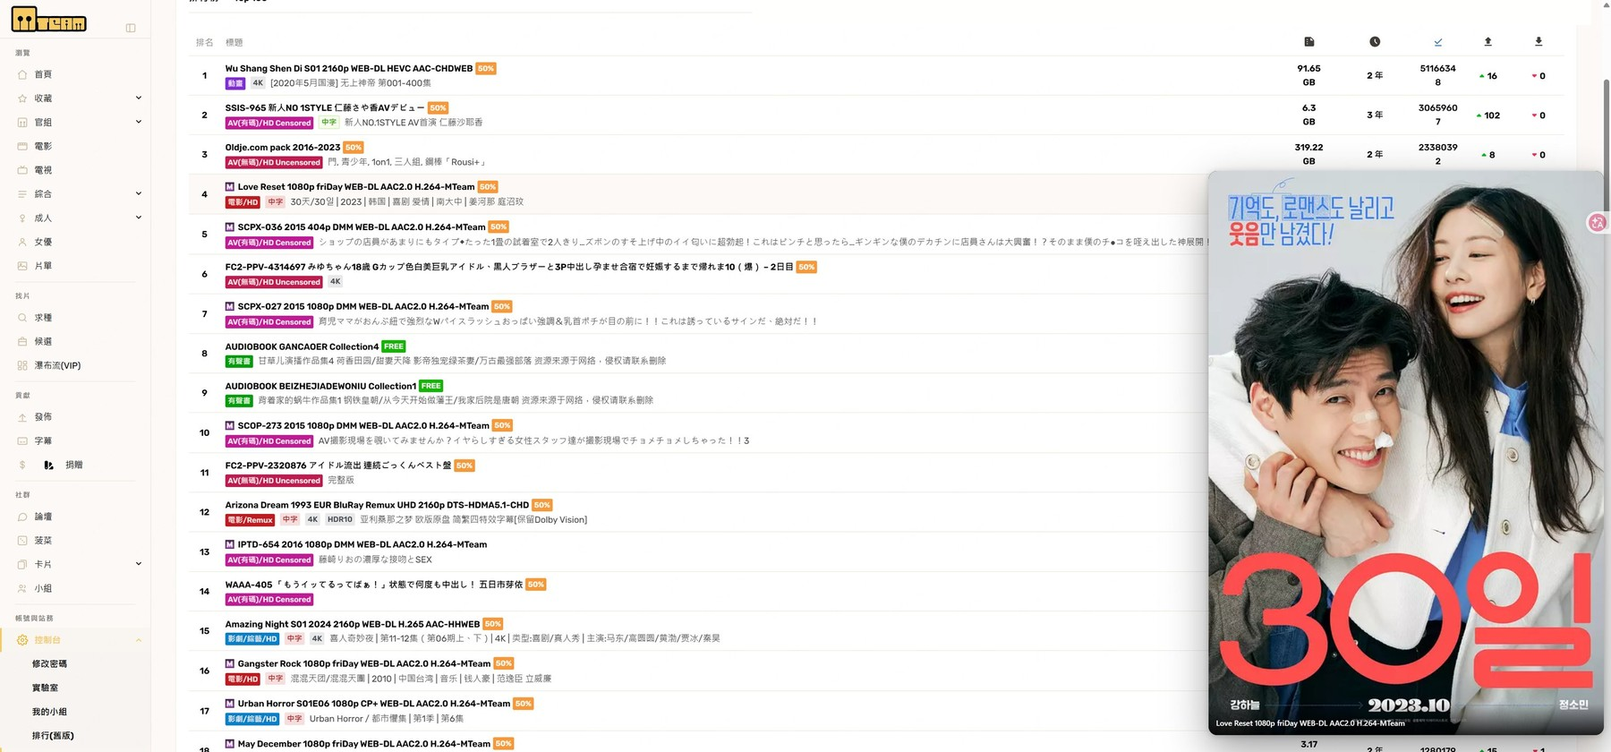
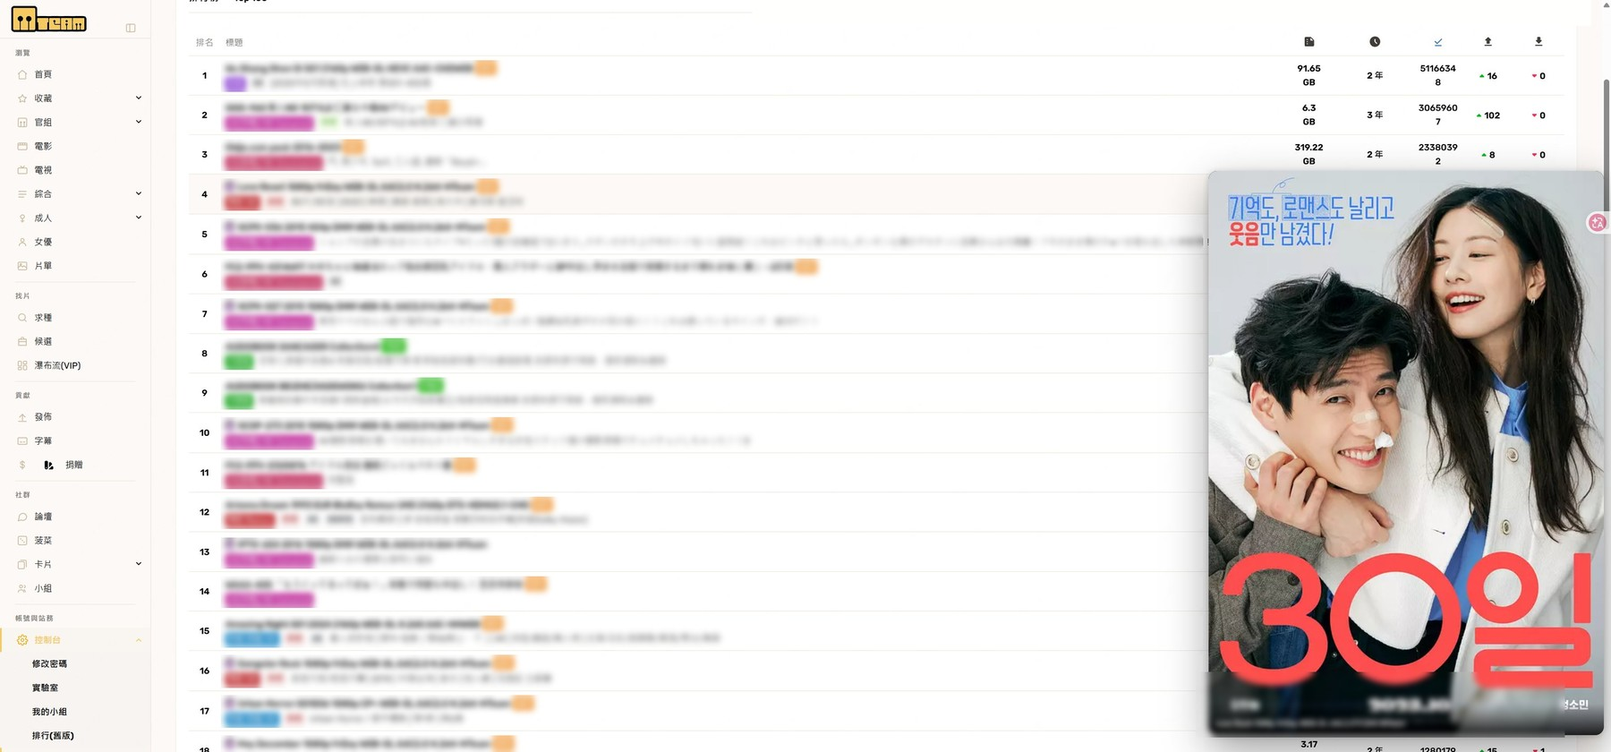
docs: English README; blur torrent titles in the hero screenshot

diff --git a/README.md b/README.md
@@ -1,7 +1,7 @@
-# M-Team 排行榜悬浮大图预览
+# M-Team Rankings Hover Preview
 
 <p align="center">
-  <a href="https://raw.githubusercontent.com/Eliaukzzz/m-team-rankings-hover-preview/main/m-team-rankings-hover-preview.user.js"><img alt="安装" src="https://img.shields.io/badge/%E4%B8%80%E9%94%AE%E5%AE%89%E8%A3%85-userscript-2ea44f?style=for-the-badge&logo=tampermonkey&logoColor=white"></a>
+  <a href="https://raw.githubusercontent.com/Eliaukzzz/m-team-rankings-hover-preview/main/m-team-rankings-hover-preview.user.js"><img alt="Install" src="https://img.shields.io/badge/INSTALL-userscript-2ea44f?style=for-the-badge&logo=tampermonkey&logoColor=white"></a>
 </p>
 
 <p align="center">
@@ -11,85 +11,85 @@
   <img alt="managers" src="https://img.shields.io/badge/Tampermonkey%20%7C%20Violentmonkey-supported-black?style=flat-square">
 </p>
 
-在 M-Team 新版排行榜 [/rankings](https://kp.m-team.cc/rankings) 里，把鼠标移到任意一行上，就在行侧弹出这个种子的**海报大图**——不用点进详情页一张张看封面。
+On M-Team's new [rankings page](https://kp.m-team.cc/rankings), hover any row and the torrent's **full-size poster** pops out beside it — no need to open detail pages one by one just to see the cover.
 
-![预览](docs/preview.jpg)
+![Preview](docs/preview.jpg)
 
-<sub>真实页面截图：M-Team 新版排行榜，鼠标停在第 4 行。截图里的账号栏已经裁掉了。</sub>
+<sub>Real page, cursor resting on row 4. Torrent names are blurred on purpose; the account bar is cropped out of the frame.</sub>
 
-## 为什么
+## Why
 
-排行榜一屏 100 条，只有标题和一行标签。想知道「这部片子长什么样」「海报对不对口」，得挨个点进详情页，而且点开就离开了榜单，回来还要重新找位置。
+The rankings page shows 100 torrents at a time with nothing but a title and one line of tags. To find out "what does this release look like", you have to open each detail page — and opening one takes you off the list, so you lose your place and have to scroll back down afterwards.
 
-麻烦的是，新版排行榜的表格里**根本没有缩略图**——只有排名和标题文字。所以要做这件事，不能靠放大行内已有的小图，只能去拿页面背后的数据。
+Worse, the new rankings table has **no thumbnails at all**: only a rank and the title text. So this cannot be done by enlarging an existing inline image — the poster has to be pulled from the data behind the page.
 
-这个脚本把「看一眼海报」变成一次悬浮：**不改页面结构、不额外请求接口、不读写账号数据**，只是把页面已经拿到的封面地址读出来，贴着行浮出来。
+This script turns "take a peek at the poster" into a single hover: **no DOM surgery, no extra API calls, no account data touched**. It reads the cover URLs the page already received and floats the large image next to the row.
 
-## 功能
+## Features
 
-- **自动取海报**：新版排行榜没有行内缩略图，脚本从两条路子拿封面——拦下页面自己的排行榜接口响应，或顺着 React 数据往上找到这一行的种子对象，取出 `imageList[0]`；两样都拿不到时，才退回放大行内已有的图片（老版榜单、卡片视图仍有缩略图）。
-- **悬浮即看**：停留约 110ms 弹出，移开约 90ms 淡出。有延迟是为了避免快速划过多行时满屏闪图。
-- **智能贴边**：行右侧优先；放不下翻到左侧；两边都放不下就贴视口边缘并上下夹取，保证整张海报**完整可见**，不会被窗口切掉。
-- **大图优先**：站点常同时存 `xxx-1.jpg`（缩略）与 `xxxjp-1.jpg`（大图），脚本先试大图，失败自动回退；若加载结果明显偏小且还有更大候选，会换用更大的那张。
-- **带上标题**：大图底部叠一行标题（两行截断），扫一眼就能确认是哪个资源。
-- **随手开关**：右下角「大图」按钮或 `Alt + P`，状态记在 `localStorage`，刷新后保持；按住 `Alt` 悬浮则本次不弹（方便拖拽、选区）。
-- **不打断操作**：`pointer-events: none`，大图不吃鼠标事件；滚动、切标签页、前进后退、选中文字时自动收起。
+- **Poster from page data.** The new rankings table has no inline thumbnail, so the script gets the cover two ways: it hooks the site's own rankings XHR/Fetch response, or walks up the React fiber from the row to the torrent object, and takes `imageList[0]` from whichever hits. Only when both fail does it fall back to enlarging an inline image (old rankings page, card views).
+- **Hover to peek.** Pops out after ~110ms and fades out after ~90ms off the row. The delay keeps fast cursor sweeps from flashing images all over the screen.
+- **Smart placement.** Right of the row first; flips to the left when there is no room; if neither side fits it hugs the viewport edge and clamps vertically, so the poster is always **fully visible** and never clipped.
+- **Large variant first.** The site often keeps both `xxx-1.jpg` (thumb) and `xxxjp-1.jpg` (full). The script tries the large one first and falls back automatically; if the loaded image is clearly too small and a bigger candidate exists, it swaps.
+- **Caption on top.** A one-line title (clamped to two lines) is overlaid at the bottom of the poster so you know which release you are looking at.
+- **Toggle on demand.** The "大图" button in the bottom-right corner, or `Alt + P`. The state is kept in `localStorage` across reloads. Holding `Alt` while hovering suppresses the preview for that moment (handy while dragging or selecting text).
+- **Never in the way.** `pointer-events: none` — the preview does not eat mouse events. Scroll, tab switch, back/forward, or selecting text hides it immediately.
 
-## 安装
+## Install
 
-**先装脚本管理器**：[Tampermonkey](https://www.tampermonkey.net/)（或 Violentmonkey / ScriptCat）。
+**First install a userscript manager**: [Tampermonkey](https://www.tampermonkey.net/) (or Violentmonkey / ScriptCat).
 
-**再点这里安装脚本**：
+**Then click here to install the script**:
 
 **<https://raw.githubusercontent.com/Eliaukzzz/m-team-rankings-hover-preview/main/m-team-rankings-hover-preview.user.js>**
 
-油猴会弹出安装页，点「安装」即可。也可以把仓库里的 [m-team-rankings-hover-preview.user.js](https://github.com/Eliaukzzz/m-team-rankings-hover-preview/blob/main/m-team-rankings-hover-preview.user.js) 直接拖进浏览器窗口，或在油猴面板「添加新脚本」里粘贴内容后 `Ctrl + S`。
+Tampermonkey shows its install page — click *Install*. You can also drag [m-team-rankings-hover-preview.user.js](https://github.com/Eliaukzzz/m-team-rankings-hover-preview/blob/main/m-team-rankings-hover-preview.user.js) straight into a browser window, or paste it into a new script in the manager panel and press `Ctrl + S`.
 
-安装后打开 <https://kp.m-team.cc/rankings>，鼠标移到任意一行上就有了。
+Then open <https://kp.m-team.cc/rankings> and hover any row.
 
-> 已经从旧版升级的，更新脚本后请**刷新一次页面**：脚本要在页面发请求之前挂上钩子，才能收到首屏的排行榜数据。
+> Upgrading from an older version? **Reload the page once** after updating: the script has to hook the network before the page sends its first request, otherwise the first batch of rankings data is missed.
 
-### 环境
+### Requirements
 
-| 项目 | 要求 |
+| Item | Requirement |
 | --- | --- |
-| 浏览器 | Chrome / Edge / Firefox / Brave 等支持 `PointerEvent` 的现代版本 |
-| 脚本管理器 | Tampermonkey 4.19+、Violentmonkey 2.13+、ScriptCat |
-| 页面 | `https://kp.m-team.cc/rankings`（新版排行榜），需已登录 |
-| 窗口宽度 | ≥ 720px（窄屏放不下大图，自动不启用） |
+| Browser | Chrome / Edge / Firefox / Brave or any modern build with `PointerEvent` |
+| Userscript manager | Tampermonkey 4.19+, Violentmonkey 2.13+, ScriptCat |
+| Page | `https://kp.m-team.cc/rankings` (new rankings page), logged in |
+| Viewport width | ≥ 720px (narrower screens cannot fit the preview, so it stays off) |
 
-## 使用
+## Usage
 
-| 操作 | 效果 |
+| Action | Result |
 | --- | --- |
-| 悬浮某一行 | 行侧弹出该种子的大图（约 0.1 秒后） |
-| 移开鼠标 | 约 90ms 后淡出 |
-| `Alt + P` | 全局开关预览 |
-| 点右下角「大图」按钮 | 同上，状态会被记住 |
-| 按住 `Alt` 悬浮 | 本次不弹 |
-| 滚动页面 | 大图立即收起 |
+| Hover a row | The torrent's poster pops out beside the row (after ~0.1s) |
+| Move the cursor away | Fades out after ~90ms |
+| `Alt + P` | Toggle the preview globally |
+| Click the "大图" button | Same toggle, state is remembered |
+| Hold `Alt` while hovering | No preview for that moment |
+| Scroll the page | Preview hides immediately |
 
-## 配置
+## Configuration
 
-脚本顶部的 `CONFIG` 是唯一配置区，改完保存、刷新页面即生效：
+The `CONFIG` block at the top of the script is the only place to configure it. Edit, save, reload the page:
 
-| 配置项 | 默认值 | 说明 |
+| Option | Default | Description |
 | --- | --- | --- |
-| `paths` | `['/rankings']` | 生效的路径前缀，可加多项 |
-| `allPages` | `false` | `true` = 全站所有页面生效 |
-| `rowSelector` | `tr.ant-table-row, tr[data-row-key], table.table-fixed tbody tr` | 「一行」的匹配选择器 |
-| `thumbMinSize` | `32` | 缩略图最小可见边长，用来滤掉小图标（antd 图片、详情链接内的图不受限） |
-| `showDelay` / `hideDelay` | `110` / `90` | 弹出 / 收起的延迟（ms） |
-| `maxWidthRatio` / `maxHeightRatio` | `0.46` / `0.68` | 大图最多占视口宽 / 高比例 |
-| `maxWidthPx` | `760` | 大图宽度硬上限（px） |
-| `minPreviewPx` | `140` | 大图最小边长（px），避免超宽图被压成一条 |
-| `gap` | `16` | 大图与行之间的间距（px） |
-| `showCaption` | `true` | 底部是否显示标题 |
-| `showToggleButton` | `true` | 是否显示右下角开关按钮 |
-| `minViewportWidth` | `720` | 视口窄于此值不启用 |
-| `preferLargeMinWidth` | `360` | 加载结果小于此宽度时，尝试更大的候选图 |
+| `paths` | `['/rankings']` | Path prefixes where the script is active; add more as needed |
+| `allPages` | `false` | `true` = active on every page of the site |
+| `rowSelector` | `tr.ant-table-row, tr[data-row-key], table.table-fixed tbody tr` | Selector matching "one row" |
+| `thumbMinSize` | `32` | Minimum visible edge of a thumbnail, filters out tiny icons (antd images and images inside detail links are exempt) |
+| `showDelay` / `hideDelay` | `110` / `90` | Show / hide delay in ms |
+| `maxWidthRatio` / `maxHeightRatio` | `0.46` / `0.68` | Maximum share of viewport width / height |
+| `maxWidthPx` | `760` | Hard cap on preview width, in px |
+| `minPreviewPx` | `140` | Minimum edge of the preview, in px, so ultra-wide art is not squashed flat |
+| `gap` | `16` | Gap between preview and row, in px |
+| `showCaption` | `true` | Show the title overlay at the bottom |
+| `showToggleButton` | `true` | Show the bottom-right toggle button |
+| `minViewportWidth` | `720` | Disabled below this viewport width |
+| `preferLargeMinWidth` | `360` | If the loaded image is narrower than this, try a larger candidate |
 
-例：让老版排行榜 `/top` 也生效，并把大图调小一点：
+Example — also enable the old rankings page at `/top` and make the preview smaller:
 
 ```js
 paths: ['/rankings', '/top'],
@@ -97,91 +97,91 @@ maxWidthRatio: 0.4,
 maxHeightRatio: 0.6,
 ```
 
-## 工作原理
+## How it works
 
-1. **事件委托，不逐元素绑定**：只在 `window` 上挂捕获阶段的 `pointerover` / `pointerout`。排行榜是 antd Table，切排序、切分类会整批重渲染；逐元素绑监听（参考脚本用 `MutationObserver` + 逐个 `mouseenter`）行多时既费事又容易漏绑。
-2. **找行**：`event.target.closest(rowSelector)`；`pointerType` 非 `mouse` 直接忽略，触屏不会误弹。行 id 从 `data-row-key` 或 `/detail/<id>` 链接里取。
-3. **取海报**：先看拦截到的接口数据里有没有这个 id 的 `imageList[0]`；没有就顺着 React fiber 从行内元素往上爬，命中 `memoizedProps.torrent` / `memoizedProps.record` 后取同一字段。两条都失败才退回放大行内图片（打分：`面积 × antd 图 × 竖版`，按行 `WeakMap` 缓存）。
-4. **为什么拦接口**：页面列表数据在首屏就请求完了，`document-idle` 再挂钩子已经晚了，所以脚本改为 `document-start` 注入，只对 `/api/` 的响应做一次 `indexOf('imageList')` 预判再 `JSON.parse`，解析失败静默跳过——不改变页面行为，也不影响请求本身。
-5. **取大图**：优先 `data-src` / `data-original`（懒加载站点常见），再退 `currentSrc` / `src`；非表格场景试 `-123.jpg` → `jp-123.jpg` 变体，失败回退原图。每次加载带递增 `token`，过期结果直接丢弃，快速划过十几行也不会串图。
-6. **定位与淡入**：先 `display:block` 再读 `offsetWidth/offsetHeight`（强制布局，避免量到 0 导致抖动），按「右 → 左 → 贴边」三级回退算 `left/top`，最后改 `opacity` 触发 0.16s 过渡。**不用 `requestAnimationFrame` 显示**：后台标签页或无头环境里 rAF 可能长时间不回调，预览会一直保持透明。
+1. **Event delegation, not per-element binding.** Only `pointerover` / `pointerout` on `window` in the capture phase. The rankings page is an antd Table: changing the sort or category re-renders every row, so binding per element (the approach of the reference script, via `MutationObserver` + per-element `mouseenter`) is both wasteful and easy to miss on a 100-row list.
+2. **Find the row.** `event.target.closest(rowSelector)`; anything whose `pointerType` is not `mouse` is ignored, so touch devices cannot trigger it by accident. The row id comes from `data-row-key` or from a `/detail/<id>` link in the row.
+3. **Get the poster.** First look up `imageList[0]` for that id in the captured API data; if missing, climb the React fiber from the row and read the same field from `memoizedProps.torrent` / `memoizedProps.record`. Only if both fail does it fall back to the inline image (scored by `area × antd image × portrait`, cached per row in a `WeakMap`).
+4. **Why hook the network at all.** The list data is fetched on first paint, so hooking at `document-idle` is already too late — hence `document-start`. To stay cheap it only wraps `XMLHttpRequest` and `fetch`, pre-checks each `/api/` response with `indexOf('imageList')` before parsing, and silently skips anything that fails. Page behaviour is unchanged; the requests themselves are not touched.
+5. **Pick the large file.** Prefer `data-src` / `data-original` (common on lazy-loading sites), then `currentSrc` / `src`. Outside tables it also tries the `-123.jpg` → `jp-123.jpg` variant and falls back to the original. Every load carries an incrementing token, so stale results are dropped — sweeping across a dozen rows never shows the wrong poster.
+6. **Position and fade in.** Set `display: block` first, then read `offsetWidth` / `offsetHeight` (forces layout, avoids measuring zero and jittering), compute `left/top` with a right → left → hug-the-edge fallback chain, and finally set `opacity` to trigger a 0.16s transition. It deliberately does **not** use `requestAnimationFrame` to reveal: in background tabs or headless environments rAF may not fire for a long time, which would leave the preview transparent forever.
 
-## 适配其它页面
+## Adapting to other pages
 
-- **老版排行榜 `/top`**：`paths: ['/rankings', '/top']`。
-- **种子列表、卡片视图**：先试 `allPages: true`；卡片视图一般还要把 `rowSelector` 换成类似 `li.list-none`（参考脚本用的是 `li.list-none .ant-image[role='button']`）的选择器。
-- **站点改版**：打开 `?mthp_debug=1`，控制台会打印 `[mthp]` 日志——`harvested N posters` 是拦到的接口图，`preview { from: 'api' | 'react' | 'thumb' }` 是这次用的来源；两样都没有会打印 `no poster found`。
+- **Old rankings page `/top`**: `paths: ['/rankings', '/top']`.
+- **Torrent lists and card views**: start with `allPages: true`. Card views usually also need a different `rowSelector`, for example `li.list-none` (the reference script uses `li.list-none .ant-image[role='button']`).
+- **After a site redesign**: open the page with `?mthp_debug=1` and check the `[mthp]` console logs — `harvested N posters` is how many covers the hooked API yielded, `preview { from: 'api' | 'react' | 'thumb' }` is the source used for this hover, and `no poster found` means neither path matched.
 
-## 常见问题
+## FAQ
 
-**排行榜行里没有小海报，脚本是怎么拿到封面的？**<br>
-页面自己就是不带缩略图渲染的，但排行榜接口返回的种子对象里有 `imageList`。脚本在页面请求返回时把 `id → 封面地址` 记下来，悬浮时按行 id 查表；查不到再顺 React 数据找一遍。全程不发新请求。
+**The rows have no thumbnails — where does the poster come from?**<br>
+The page renders without thumbnails, but the rankings API response contains `imageList` for each torrent. The script records `id → cover URL` when that response arrives and looks the row up on hover; if the lookup misses, it walks the React data instead. No new requests are made at any point.
 
-**悬浮了但没反应？**<br>
-依次确认：地址是 `/rankings`（受 `CONFIG.paths` 限制）→ 窗口宽度 ≥ 720px → 右下角按钮显示「大图」而不是「大图 关」→ **更新后是否刷新过页面**（脚本要 `document-start` 注入）→ 是否与其它 M-Team 脚本冲突（先禁用其它脚本试试）。
+**Hovering does nothing.**<br>
+Check in order: the URL is `/rankings` (limited by `CONFIG.paths`) → the window is at least 720px wide → the bottom-right button reads "大图" rather than "大图 关" → **did you reload the page after updating** (the script must run at `document-start`) → another M-Team script is not interfering (disable the others to test).
 
-**还是没反应，怎么定位？**<br>
-地址加 `?mthp_debug=1` 打开控制台，看 `[mthp]` 日志：没有 `harvested` 说明接口没拦到（可能站点换了请求方式）；有 `harvested` 但没有 `preview` 说明行 id 对不上（可能表格结构变了）。把日志发到 issue 里即可。
+**Still nothing — how do I debug?**<br>
+Add `?mthp_debug=1` to the URL and open the console: no `harvested` line means the API call was not captured (the site may have changed how it fetches); `harvested` but no `preview` line means the row id did not match (the table markup may have changed). Paste the log into an issue.
 
-**大图挡住表格右边几列？**<br>
-排行榜表格几乎占满屏幕时，大图只能覆盖在上面（`pointer-events: none`，不影响点击）。把 `maxWidthRatio` 调到 `0.35`、或 `maxWidthPx` 调到 `480` 会好很多。
+**The preview covers the right-hand columns.**<br>
+When the rankings table fills the screen the preview can only sit on top of it (`pointer-events: none`, so clicks still go through). Lower `maxWidthRatio` to `0.35` or `maxWidthPx` to `480` and it gets much better.
 
-**会额外耗流量吗？**<br>
-每张图只在首次悬浮时加载一次，之后走浏览器缓存；快速划过、没停留的行不会加载。除图片本身外没有任何网络请求——拦截只是读取页面已有的响应。
+**Does it use extra bandwidth?**<br>
+Each image is loaded once, on first hover, and then comes from the browser cache; rows you sweep past without pausing never load anything. Apart from the images themselves there are no network requests — the hook only reads responses the page already received.
 
-**会把我的数据传出去吗？**<br>
-不会。脚本不读 Cookie、不发请求、不注入远端代码，逻辑全在本地；开关状态只写 `localStorage`。
+**Does it send my data anywhere?**<br>
+No. The script does not read cookies, does not make requests, does not inject remote code — all logic is local, and the on/off state is written to `localStorage` only.
 
-**手机上能用吗？**<br>
-基本不能：触屏没有 hover，脚本也主动过滤了非鼠标指针，窄屏（< 720px）还会自动关闭。
+**Does it work on mobile?**<br>
+Basically no: touch screens have no hover, the script filters out non-mouse pointers, and narrow viewports (< 720px) turn it off.
 
-## 本地开发
+## Local development
 
-仓库自带一个仿排行榜的演示页，调样式时不用登 M-Team、也不用反复真机验证：
+The repository ships with a demo page that mimics the rankings table, so you can tweak the styling without logging into M-Team or re-testing against the live site:
 
 ```bash
 git clone https://github.com/Eliaukzzz/m-team-rankings-hover-preview.git
 cd m-team-rankings-hover-preview
-node demo/serve.mjs          # 需要 Node 18+
-# 打开 http://localhost:8123/rankings
+node demo/serve.mjs          # needs Node 18+
+# open http://localhost:8123/rankings
 ```
 
-演示页刻意做成和真实页面一样的形态：行里只有标题文字、没有缩略图，海报走一个假的 `/api/torrent/search`（由 `demo/serve.mjs` 提供），这样能完整走通「拦接口 → 查表 → 出图」这条链路。加上 `?autohover=3` 会在加载后自动悬浮第 3 行，方便截图或做回归比对。
+The demo deliberately mirrors the real thing: rows contain a title only, no thumbnail, and the posters come from a fake `/api/torrent/search` served by `demo/serve.mjs` — so the whole "hook the API → look up → show the poster" path is exercised. Append `?autohover=3` to hover row 3 automatically after load, which is handy for screenshots and regression checks.
 
-![演示动图](docs/demo.gif)
+![Demo](docs/demo.gif)
 
-<sub>上面这段动图录自演示页（假数据，行里同样没有小海报）。</sub>
+<sub>The GIF above was recorded on the demo page (fake data, rows also carry no thumbnail).</sub>
 
-## 目录结构
+## Project structure
 
 ```
 m-team-rankings-hover-preview/
-├── m-team-rankings-hover-preview.user.js   # 脚本本体（安装这个）
+├── m-team-rankings-hover-preview.user.js   # the script itself (install this one)
 ├── demo/
-│   ├── index.html                          # 仿排行榜的演示页（拉假接口、不渲染缩略图）
-│   ├── serve.mjs                           # 演示页 + 假 /api/torrent/search
-│   └── posters/                            # 演示用海报图
+│   ├── index.html                          # rankings look-alike (calls the fake API, renders no thumbnails)
+│   ├── serve.mjs                           # static server + fake /api/torrent/search
+│   └── posters/                            # sample posters for the demo
 ├── docs/
-│   ├── preview.jpg                         # 真实页面截图（README 头图）
-│   └── demo.gif                            # 演示页动图
+│   ├── preview.jpg                         # real-page screenshot (hero image)
+│   └── demo.gif                            # demo page recording
 ├── LICENSE
 └── README.md
 ```
 
-## 更新日志
+## Changelog
 
-- **1.2.0**：修复「安装后在排行榜上没反应」。新版排行榜表格里没有缩略图，改为从页面接口响应 / React 数据里取 `imageList` 作为海报；`@run-at` 提前到 `document-start` 以便拦到首屏数据；行内缩略图逻辑保留为回退。
-- **1.1.1**：补全脚本头信息（`@author` / `@namespace` / `@homepageURL`）；文档整理。
-- **1.1.0**：改为事件委托；支持 `data-src` 等懒加载属性；加入大图变体回退，加载过小自动换更大候选；去掉对 `requestAnimationFrame` 的依赖；竖版图加权。
-- **1.0.0**：首个可用版本 —— 悬浮预览、贴边定位、标题叠加、`Alt + P` 开关。
+- **1.2.0** — Fixed "nothing happens on the rankings page after installing". The new rankings table has no thumbnails, so the poster now comes from `imageList` in the hooked API response / React data; `@run-at` moved to `document-start` so the first batch of data is captured; the inline-thumbnail path is kept as a fallback.
+- **1.1.1** — Completed the script header (`@author` / `@namespace` / `@homepageURL`); documentation cleanup.
+- **1.1.0** — Switched to event delegation; support for `data-src` and other lazy-loading attributes; large-variant fallback and automatic upgrade when the loaded image is too small; removed the `requestAnimationFrame` dependency; portrait images weighted higher.
+- **1.0.0** — First usable release: hover preview, edge-aware placement, title overlay, `Alt + P` toggle.
 
-## 致谢
+## Credits
 
-- 交互与选择器思路参考 [M-Team 新版页面主题 列表大图预览](https://greasyfork.org/zh-CN/scripts/538074)（作者 [Seahor](https://github.com/SeahorZhang/m-team-thems)）。本脚本是独立实现，针对排行榜用了更轻的委托式处理。
-- 页面类名、表格结构与接口字段来自对 `kp.m-team.cc` 前端 bundle 的阅读；站点改版后可能需要同步调整选择器。
+- Interaction model and selector ideas inspired by [M-Team New UI — List Image Preview](https://greasyfork.org/zh-CN/scripts/538074) by [Seahor](https://github.com/SeahorZhang/m-team-thems). This script is an independent implementation and uses a lighter delegation-based approach for the rankings page.
+- Class names, table structure and API field names come from reading the `kp.m-team.cc` frontend bundle; after a site redesign the selectors may need adjusting.
 
 ## License
 
 [MIT](LICENSE) © Eliaukzzz
 
-如果这个脚本帮你省了几次点击，欢迎点个 ⭐。
+If this script saved you a few clicks, a ⭐ is appreciated.
